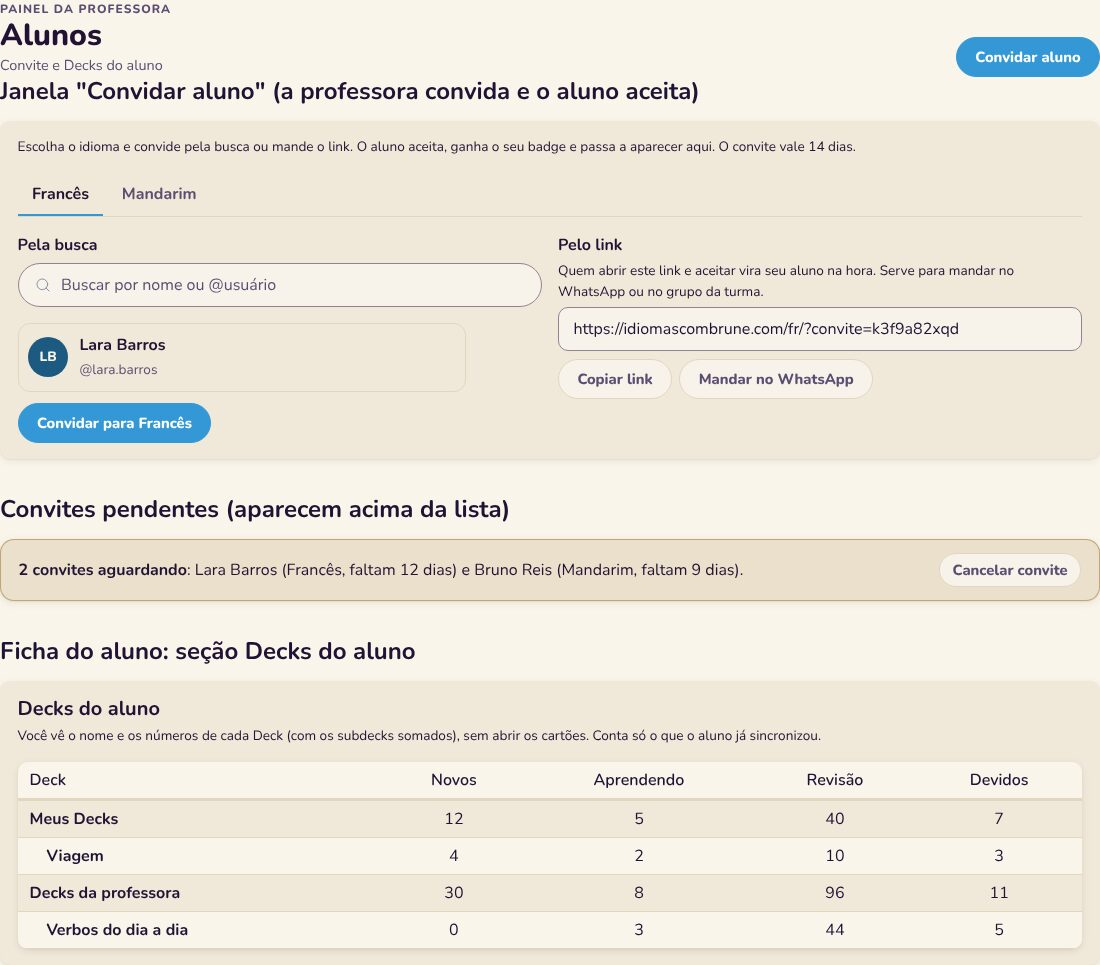
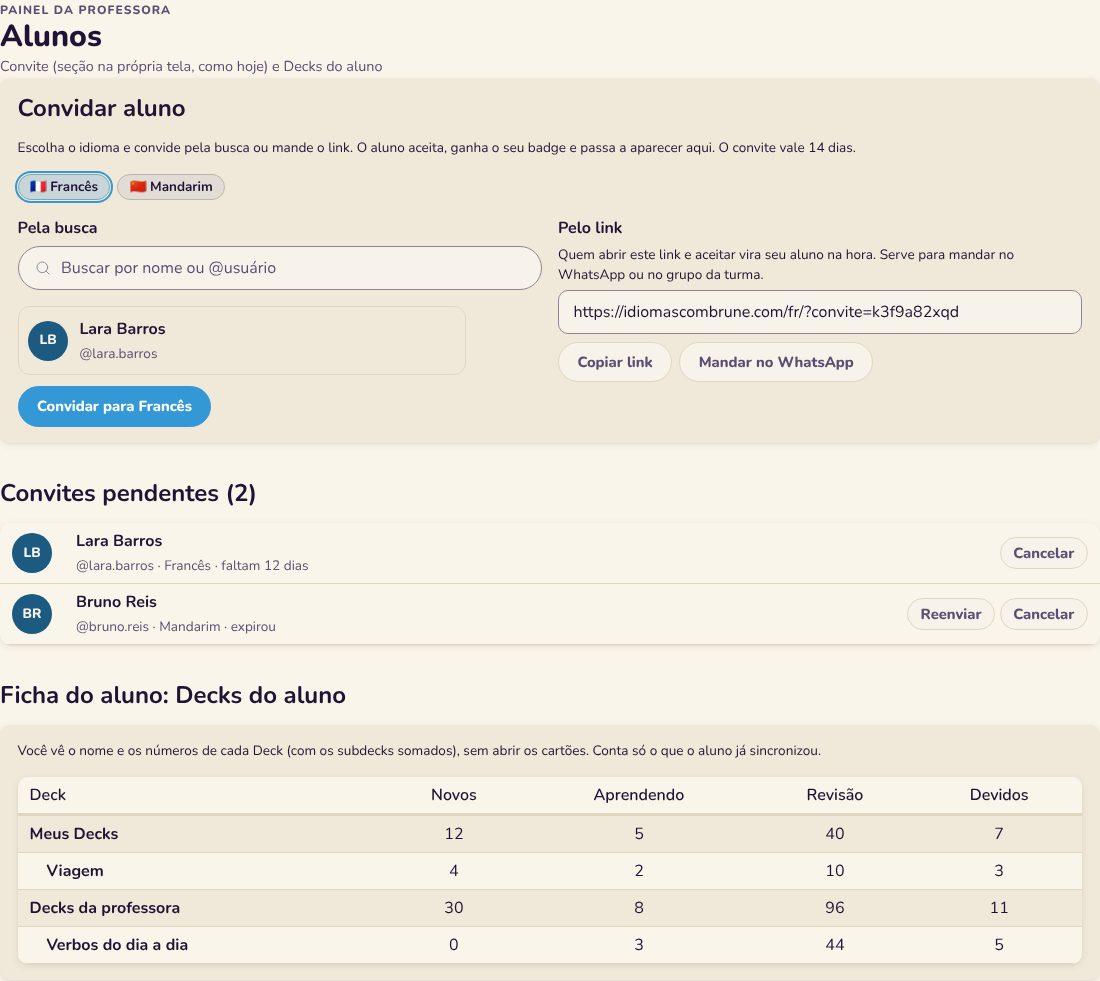
Prévia da integração: fiel ao que a main já tem (convite em seção, janela Escolher pessoas com Turmas)
Claude-Session: https://claude.ai/code/session_01Hq2KiPJSpXt1rYxNpNVv5y

diff --git a/docs/fase-4-integracao/previa-fonte.html b/docs/fase-4-integracao/previa-fonte.html
@@ -39,74 +39,102 @@ html,body{margin:0;background:var(--paper)}
 <div class="painel">
 
 <section id="aulas" class="peca">
-  <header class="p-cabecalho"><div><span class="p-sobretitulo">Painel da professora</span><h1>Aulas</h1><span class="p-subtitulo">Formulário de nova aula, com Presença, Competências e turma</span></div></header>
-  <article>
-    <form>
-      <div class="dois">
-        <label>Data da aula<input type="date" value="2026-10-14"></label>
-        <label>Duração (min)<input type="number" value="50"></label>
-      </div>
-      <fieldset class="campo">
-        <legend>Para quem foi a aula</legend>
-        <div class="linha">
-          <span class="turma"><input type="checkbox" checked> Marina Alves</span>
-          <span class="turma"><input type="checkbox"> Tiago Nunes</span>
-          <span class="turma"><input type="checkbox"> 👥 Turma Quarta 19h <small class="pequeno">3 alunos</small></span>
+  <header class="p-cabecalho"><div><span class="p-sobretitulo">Painel da professora</span><h1>Aulas</h1><span class="p-subtitulo">Mesma tela de hoje, com o que a main trouxe: turma, presença e competências</span></div></header>
+  <div class="dois" style="grid-template-columns:minmax(0,1.1fr) minmax(0,.9fr);align-items:start">
+    <div>
+      <h3 style="margin-top:0">Lista de aulas (um cartão com os selos)</h3>
+      <article class="p-aula" style="display:grid;grid-template-columns:3.4rem 1fr auto;gap:.9rem;align-items:start">
+        <div style="text-align:center;font-weight:800;border:1px solid var(--p-linha);border-radius:10px;padding:.3rem">14<br><small>OUT</small></div>
+        <div>
+          <h3 style="margin:0 0 .25rem">Pedir comida no restaurante</h3>
+          <div class="linha" style="margin-bottom:.35rem"><span class="competencia" style="padding:.05rem .6rem">👥 Turma Quarta 19h</span><span class="rot" data-c="green" style="cursor:default">Presente</span><span class="competencia" style="padding:.05rem .6rem">Conversação</span><span class="competencia" style="padding:.05rem .6rem">Vocabulário</span></div>
+          <span class="pequeno">Aula de turma · Marina Alves, Tiago Nunes, Helena Duarte</span>
+          <dl style="margin:.35rem 0 0"><dt class="pequeno" style="display:inline;font-weight:800">Lição de casa </dt><dd style="display:inline;margin:0">Gravar um áudio</dd></dl>
         </div>
-        <span class="pequeno">Aula de turma fica registrada uma vez só e aparece para todos os alunos da turma.</span>
-      </fieldset>
-      <fieldset class="campo">
-        <legend>Presença</legend>
-        <div class="linha" role="radiogroup">
-          <span class="rot" data-c="gray" role="radio" aria-checked="false">Sem registro</span>
-          <span class="rot" data-c="green" role="radio" aria-checked="true">Presente <span class="mais" title="Renomear, cor ou arquivar">⋯</span></span>
-          <span class="rot" data-c="red" role="radio" aria-checked="false">Faltou <span class="mais">⋯</span></span>
-          <span class="rot" data-c="yellow" role="radio" aria-checked="false">Reposição <span class="mais">⋯</span></span>
+        <button class="outline" style="padding:.3rem .8rem">Ações</button>
+      </article>
+      <article class="p-aula" style="display:grid;grid-template-columns:3.4rem 1fr auto;gap:.9rem;align-items:start;margin-top:.8rem">
+        <div style="text-align:center;font-weight:800;border:1px solid var(--p-linha);border-radius:10px;padding:.3rem">09<br><small>OUT</small></div>
+        <div>
+          <h3 style="margin:0 0 .25rem">Passé composé com être</h3>
+          <div class="linha" style="margin-bottom:.35rem"><span class="rot" data-c="red" style="cursor:default">Faltou</span></div>
+          <span class="pequeno">Marina Alves · Francês</span>
         </div>
-        <input type="text" placeholder="Digite um nome e aperte Enter para criar um rótulo" style="max-width:26rem;margin:0">
-      </fieldset>
-      <fieldset class="campo">
-        <legend>Competências trabalhadas</legend>
-        <div class="linha">
-          <label class="competencia"><input type="checkbox" checked> Conversação</label>
-          <label class="competencia"><input type="checkbox" checked> Vocabulário</label>
-          <label class="competencia"><input type="checkbox"> Gramática</label>
-          <label class="competencia"><input type="checkbox"> Escrita</label>
-          <label class="competencia"><input type="checkbox"> Leitura</label>
-          <label class="competencia"><input type="checkbox"> Escuta</label>
-          <label class="competencia"><input type="checkbox"> Pronúncia</label>
-        </div>
-      </fieldset>
-      <label>O que foi visto<textarea rows="2">Pedir comida no restaurante.</textarea></label>
-      <button type="button">Registrar aula</button>
-    </form>
-  </article>
-
-  <h3>Menu do rótulo (ao clicar no ⋯)</h3>
-  <div class="menu-rotulo">
-    <input type="text" value="Reposição" aria-label="Nome do rótulo">
-    <div class="cores"><span class="rot" data-c="gray">Cinza</span><span class="rot" data-c="brown">Marrom</span><span class="rot" data-c="orange">Laranja</span><span class="rot" data-c="yellow" aria-checked="true">Amarelo</span><span class="rot" data-c="green">Verde</span><span class="rot" data-c="blue">Azul</span><span class="rot" data-c="purple">Roxo</span><span class="rot" data-c="pink">Rosa</span><span class="rot" data-c="red">Vermelho</span></div>
-    <div class="linha" style="justify-content:space-between"><a href="#" class="pequeno">Arquivar</a><button type="button" class="outline" style="padding:.3rem .9rem">Pronto</button></div>
+        <button class="outline" style="padding:.3rem .8rem">Ações</button>
+      </article>
+    </div>
+    <div>
+      <h3 style="margin-top:0">Formulário "Registrar aula" (lado direito)</h3>
+      <article style="margin:0">
+        <strong>Quem teve a aula</strong>
+        <div class="linha" style="margin:.4rem 0"><span class="competencia" style="padding:.05rem .6rem">Marina Alves</span><span class="competencia" style="padding:.05rem .6rem">👥 Turma Quarta 19h</span></div>
+        <button class="outline" type="button" style="padding:.3rem .9rem">Escolher pessoas</button>
+        <label style="margin-top:.8rem">Data<input type="date" value="2026-10-14"></label>
+        <label>Tópico<input type="text" value="Pedir comida no restaurante"></label>
+        <fieldset class="campo">
+          <legend>Presença</legend>
+          <div class="linha" role="radiogroup">
+            <span class="rot" data-c="gray" role="radio" aria-checked="false">Sem registro</span>
+            <span class="rot" data-c="green" role="radio" aria-checked="true">Presente <span class="mais">⋯</span></span>
+            <span class="rot" data-c="red" role="radio" aria-checked="false">Faltou <span class="mais">⋯</span></span>
+            <span class="rot" data-c="yellow" role="radio" aria-checked="false">Reposição <span class="mais">⋯</span></span>
+          </div>
+          <input type="text" placeholder="Digite um nome e aperte Enter para criar um rótulo" style="margin:0">
+        </fieldset>
+        <fieldset class="campo">
+          <legend>Competências trabalhadas</legend>
+          <div class="linha">
+            <label class="competencia"><input type="checkbox" checked> Conversação</label>
+            <label class="competencia"><input type="checkbox" checked> Vocabulário</label>
+            <label class="competencia"><input type="checkbox"> Gramática</label>
+            <label class="competencia"><input type="checkbox"> Escrita</label>
+            <label class="competencia"><input type="checkbox"> Leitura</label>
+            <label class="competencia"><input type="checkbox"> Escuta</label>
+            <label class="competencia"><input type="checkbox"> Pronúncia</label>
+          </div>
+        </fieldset>
+        <div class="linha" style="justify-content:flex-end"><button class="outline" type="button">Limpar</button><button type="button">Registrar aula · 1 aluno · 1 turma</button></div>
+      </article>
+    </div>
   </div>
 
-  <h3>Na lista de aulas</h3>
-  <article class="p-aula" style="display:grid;grid-template-columns:3.4rem 1fr auto;gap:.9rem;align-items:start">
-    <div style="text-align:center;font-weight:800;border:1px solid var(--p-linha);border-radius:10px;padding:.3rem">14<br><small>OUT</small></div>
+  <div class="dois" style="margin-top:1.2rem;align-items:start">
     <div>
-      <h3 style="margin:0 0 .25rem">Pedir comida no restaurante</h3>
-      <div class="linha" style="margin-bottom:.35rem"><span class="competencia" style="padding:.05rem .6rem">👥 Turma Quarta 19h</span><span class="rot" data-c="green" style="cursor:default">Presente</span><span class="competencia" style="padding:.05rem .6rem">Conversação</span><span class="competencia" style="padding:.05rem .6rem">Vocabulário</span></div>
-      <span class="pequeno">Marina Alves · 50 min</span>
+      <h3 style="margin-top:0">Janela "Escolher pessoas" (ganha o bloco Turmas)</h3>
+      <article style="margin:0">
+        <strong>Alunos</strong>
+        <input type="search" placeholder="Buscar por nome ou @usuário" style="margin:.4rem 0">
+        <div class="linha" style="margin-bottom:.4rem"><span class="pequeno">Francês</span><span class="pequeno">·</span><a href="#" class="pequeno">Marcar todos</a><a href="#" class="pequeno">Limpar</a></div>
+        <div style="display:grid;gap:.3rem;margin-bottom:.9rem">
+          <label class="turma"><input type="checkbox" checked> Marina Alves · @marina.alves</label>
+          <label class="turma"><input type="checkbox"> Tiago Nunes · @tiagonunes</label>
+        </div>
+        <strong>Turmas</strong>
+        <p class="pequeno" style="margin:.2rem 0 .4rem">Aula de turma fica registrada uma vez só e aparece para todos os alunos da turma.</p>
+        <div style="display:grid;gap:.3rem">
+          <label class="turma"><input type="checkbox" checked> 👥 Turma Quarta 19h · Francês · 3 alunos</label>
+          <label class="turma"><input type="checkbox"> 👥 Turma Sábado · Mandarim · 5 alunos</label>
+        </div>
+        <p class="pequeno" style="margin:.7rem 0 0;font-weight:800">1 aluno · 1 turma</p>
+      </article>
     </div>
-    <button class="outline" style="padding:.3rem .8rem">Editar</button>
-  </article>
+    <div>
+      <h3 style="margin-top:0">Menu do rótulo (ao clicar no ⋯)</h3>
+      <div class="menu-rotulo">
+        <input type="text" value="Reposição" aria-label="Nome do rótulo">
+        <div class="cores"><span class="rot" data-c="gray">Cinza</span><span class="rot" data-c="brown">Marrom</span><span class="rot" data-c="orange">Laranja</span><span class="rot" data-c="yellow" aria-checked="true">Amarelo</span><span class="rot" data-c="green">Verde</span><span class="rot" data-c="blue">Azul</span><span class="rot" data-c="purple">Roxo</span><span class="rot" data-c="pink">Rosa</span><span class="rot" data-c="red">Vermelho</span></div>
+        <div class="linha" style="justify-content:space-between"><a href="#" class="pequeno">Arquivar</a><button type="button" class="outline" style="padding:.3rem .9rem">Pronto</button></div>
+      </div>
+    </div>
+  </div>
 </section>
 
 <section id="alunos" class="peca">
-  <header class="p-cabecalho"><div><span class="p-sobretitulo">Painel da professora</span><h1>Alunos</h1><span class="p-subtitulo">Convite e Decks do aluno</span></div><div class="p-acoes"><button>Convidar aluno</button></div></header>
-  <h3>Janela "Convidar aluno" (a professora convida e o aluno aceita)</h3>
+  <header class="p-cabecalho"><div><span class="p-sobretitulo">Painel da professora</span><h1>Alunos</h1><span class="p-subtitulo">Convite (seção na própria tela, como hoje) e Decks do aluno</span></div></header>
   <article>
+    <h3 style="margin-top:0">Convidar aluno</h3>
     <p class="pequeno">Escolha o idioma e convide pela busca ou mande o link. O aluno aceita, ganha o seu badge e passa a aparecer aqui. O convite vale 14 dias.</p>
-    <div class="p-abas" style="margin-bottom:1rem"><a href="#" aria-current="true">Francês</a><a href="#">Mandarim</a></div>
+    <div class="linha" style="margin:.4rem 0 1rem"><span class="rot" data-c="blue" aria-checked="true" role="radio">🇫🇷 Francês</span><span class="rot" data-c="gray" role="radio" aria-checked="false">🇨🇳 Mandarim</span></div>
     <div class="dois">
       <div>
         <strong>Pela busca</strong>
@@ -122,14 +150,14 @@ html,body{margin:0;background:var(--paper)}
       </div>
     </div>
   </article>
-  <h3>Convites pendentes (aparecem acima da lista)</h3>
-  <article class="p-alerta" style="display:flex;justify-content:space-between;gap:1rem;align-items:center">
-    <span><strong>2 convites aguardando</strong>: Lara Barros (Francês, faltam 12 dias) e Bruno Reis (Mandarim, faltam 9 dias).</span><button class="outline" style="padding:.3rem .8rem">Cancelar convite</button>
-  </article>
-  <h3>Ficha do aluno: seção Decks do aluno</h3>
+  <h3>Convites pendentes (2)</h3>
+  <article class="p-tabela" style="margin:0"><table><tbody>
+    <tr><td style="width:3rem"><span class="p-avatar">LB</span></td><td style="text-align:left"><strong>Lara Barros</strong><br><small class="pequeno">@lara.barros · Francês · faltam 12 dias</small></td><td style="text-align:right"><button class="outline" style="padding:.25rem .8rem">Cancelar</button></td></tr>
+    <tr><td><span class="p-avatar">BR</span></td><td style="text-align:left"><strong>Bruno Reis</strong><br><small class="pequeno">@bruno.reis · Mandarim · expirou</small></td><td style="text-align:right"><button class="outline" style="padding:.25rem .8rem">Reenviar</button> <button class="outline" style="padding:.25rem .8rem">Cancelar</button></td></tr>
+  </tbody></table></article>
+  <h3>Ficha do aluno: Decks do aluno</h3>
   <article>
-    <h4 style="margin:0 0 .3rem">Decks do aluno</h4>
-    <p class="pequeno">Você vê o nome e os números de cada Deck (com os subdecks somados), sem abrir os cartões. Conta só o que o aluno já sincronizou.</p>
+    <p class="pequeno" style="margin-top:0">Você vê o nome e os números de cada Deck (com os subdecks somados), sem abrir os cartões. Conta só o que o aluno já sincronizou.</p>
     <article class="p-tabela" style="margin:0"><table class="striped arvore"><thead><tr><th>Deck</th><th>Novos</th><th>Aprendendo</th><th>Revisão</th><th>Devidos</th></tr></thead><tbody>
       <tr><th scope="row">Meus Decks</th><td>12</td><td>5</td><td>40</td><td>7</td></tr>
       <tr><th scope="row" style="padding-left:1.8rem">Viagem</th><td>4</td><td>2</td><td>10</td><td>3</td></tr>
@@ -140,7 +168,7 @@ html,body{margin:0;background:var(--paper)}
 </section>
 
 <section id="analytics" class="peca">
-  <header class="p-cabecalho"><div><span class="p-sobretitulo">Painel de Admin</span><h1>Analytics</h1><span class="p-subtitulo">Nova sub-aba "Decks públicos"</span></div></header>
+  <header class="p-cabecalho"><div><span class="p-sobretitulo">Painel de Admin</span><h1>Analytics</h1><span class="p-subtitulo">Sub-aba "Decks públicos" (a última da fila, como hoje)</span></div></header>
   <nav class="p-abas" style="margin-bottom:1rem"><a href="#">Resumo</a><a href="#">Atividade</a><a href="#">Progressão</a><a href="#">Exercícios</a><a href="#">Retenção</a><a href="#">Engajamento</a><a href="#">Tecnologia</a><a href="#" aria-current="true">Decks públicos</a></nav>
   <p class="pequeno">Quantas pessoas adicionaram cada Deck público (cada conta conta uma vez; recópias entram só em "Cópias"). Conta desde 12/10/2026.</p>
   <article class="p-tabela"><table class="striped"><thead><tr><th>Deck</th><th>Pessoas</th><th>Cópias</th><th>Última cópia</th></tr></thead><tbody>

diff --git a/docs/fase-4-integracao/previa-integracao.html b/docs/fase-4-integracao/previa-integracao.html
@@ -12,4 +12,4 @@ figcaption{font-size:.85rem;color:var(--soft);margin-top:.3rem}
 </style>
 <h1>Prévia: o que a main trouxe, no Design System</h1>
 <p class="sub">Isto é só o desenho, ainda sem código. Dados de exemplo. Cada bloco mostra o Francês no claro e o Mandarim no escuro. Nada será implementado antes da sua aprovação.</p>
-<h2>Aulas: Presença, Competências e aula de turma</h2><p class="sub">O que a outra sessão criou nas Aulas de hoje, refeito com as peças do Design System. Presença vira rótulos coloridos que você escolhe com um clique, cria digitando e ajusta no ⋯ (nome, cor, arquivar), como no Notion. As competências viram botões de marcar. A aula de turma entra ao lado dos alunos, e a lista mostra turma, presença e competências em selos.</p><div class="par"><figure><img src="previa-aulas-fr-light.jpg" alt="Aulas: Presença, Competências e aula de turma, Francês claro"><figcaption>Francês, claro</figcaption></figure><figure><img src="previa-aulas-zh-dark.jpg" alt="Aulas: Presença, Competências e aula de turma, Mandarim escuro"><figcaption>Mandarim, escuro</figcaption></figure></div><h2>Alunos: convite e Decks do aluno</h2><p class="sub">O convite (busca ou link, vale 14 dias) numa janela aberta pelo botão "Convidar aluno", e os convites pendentes num aviso acima da lista. Na ficha do aluno entra a tabela de Decks, em árvore, só com nome e números.</p><div class="par"><figure><img src="previa-alunos-fr-light.jpg" alt="Alunos: convite e Decks do aluno, Francês claro"><figcaption>Francês, claro</figcaption></figure><figure><img src="previa-alunos-zh-dark.jpg" alt="Alunos: convite e Decks do aluno, Mandarim escuro"><figcaption>Mandarim, escuro</figcaption></figure></div><h2>Analytics: aba Decks públicos</h2><p class="sub">Uma sub-aba nova, igual às outras, com a tabela de quantas pessoas adicionaram cada Deck público.</p><div class="par"><figure><img src="previa-analytics-fr-light.jpg" alt="Analytics: aba Decks públicos, Francês claro"><figcaption>Francês, claro</figcaption></figure><figure><img src="previa-analytics-zh-dark.jpg" alt="Analytics: aba Decks públicos, Mandarim escuro"><figcaption>Mandarim, escuro</figcaption></figure></div><h2>Cartões: Banco de Revisão</h2><p class="sub">Nada muda no Banco de Revisão. Ele continua com a tela e a aparência de hoje, aberto dentro do Cartões novo.</p><div class="par"><figure><img src="previa-cartoes-fr-light.jpg" alt="Cartões: Banco de Revisão, Francês claro"><figcaption>Francês, claro</figcaption></figure><figure><img src="previa-cartoes-zh-dark.jpg" alt="Cartões: Banco de Revisão, Mandarim escuro"><figcaption>Mandarim, escuro</figcaption></figure></div>
+<h2>Aulas: Presença, Competências e aula de turma</h2><p class="sub">A mesma tela de hoje (lista à esquerda, "Registrar aula" à direita, "Escolher pessoas" numa janela), com o que a outra sessão criou: Presença em rótulos coloridos (clica para escolher, digita e dá Enter para criar, ⋯ para nome, cor e arquivar), Competências em botões de marcar, e a janela de pessoas com o bloco Turmas. A lista mostra turma, presença e competências em selos.</p><div class="par"><figure><img src="previa-aulas-fr-light.jpg" alt="Aulas: Presença, Competências e aula de turma, Francês claro"><figcaption>Francês, claro</figcaption></figure><figure><img src="previa-aulas-zh-dark.jpg" alt="Aulas: Presença, Competências e aula de turma, Mandarim escuro"><figcaption>Mandarim, escuro</figcaption></figure></div><h2>Alunos: convite e Decks do aluno</h2><p class="sub">O convite continua como seção na própria tela (idioma, busca de conta e link, vale 14 dias), com a lista de convites pendentes (cancelar, ou reenviar se expirou). Na ficha do aluno entra a tabela de Decks, em árvore, só com nome e números.</p><div class="par"><figure><img src="previa-alunos-fr-light.jpg" alt="Alunos: convite e Decks do aluno, Francês claro"><figcaption>Francês, claro</figcaption></figure><figure><img src="previa-alunos-zh-dark.jpg" alt="Alunos: convite e Decks do aluno, Mandarim escuro"><figcaption>Mandarim, escuro</figcaption></figure></div><h2>Analytics: aba Decks públicos</h2><p class="sub">A sub-aba "Decks públicos" é a última da fila, como hoje, com a tabela de quantas pessoas adicionaram cada Deck público.</p><div class="par"><figure><img src="previa-analytics-fr-light.jpg" alt="Analytics: aba Decks públicos, Francês claro"><figcaption>Francês, claro</figcaption></figure><figure><img src="previa-analytics-zh-dark.jpg" alt="Analytics: aba Decks públicos, Mandarim escuro"><figcaption>Mandarim, escuro</figcaption></figure></div><h2>Cartões: Banco de Revisão</h2><p class="sub">Nada muda no Banco de Revisão. Ele continua com a tela e a aparência de hoje, aberto dentro do Cartões novo.</p><div class="par"><figure><img src="previa-cartoes-fr-light.jpg" alt="Cartões: Banco de Revisão, Francês claro"><figcaption>Francês, claro</figcaption></figure><figure><img src="previa-cartoes-zh-dark.jpg" alt="Cartões: Banco de Revisão, Mandarim escuro"><figcaption>Mandarim, escuro</figcaption></figure></div>
